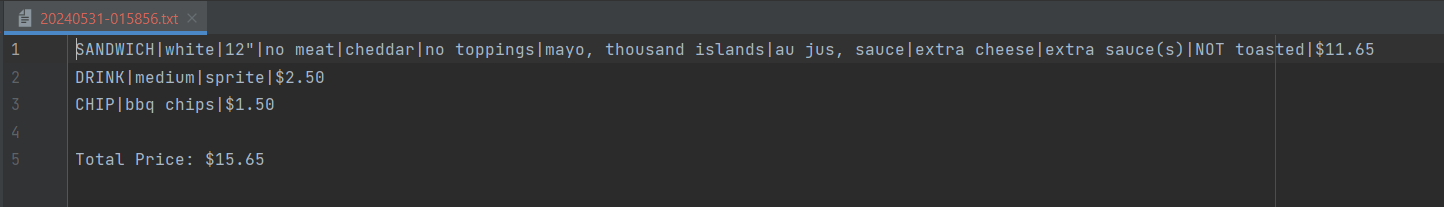
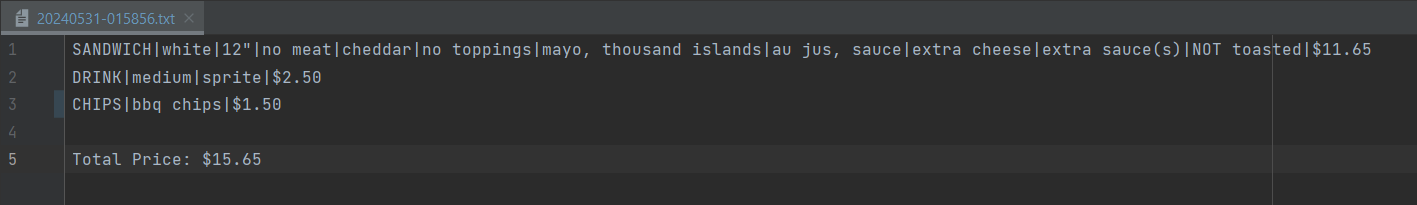
added diagram and main feature section to readme, and renamed 'Chip' class to 'Chips'

diff --git a/src/main/java/com/ps/FileManager.java b/src/main/java/com/ps/FileManager.java
@@ -71,10 +71,10 @@ public class FileManager {
                             product.calcPrice()
                     ));
                     
-                } else if (product instanceof Chip) {
+                } else if (product instanceof Chips) {
                     bufWriter.write(String.format(
-                            "CHIP|%s|$%.2f\n",
-                            ((Chip) product).getChipType(),
+                            "CHIPS|%s|$%.2f\n",
+                            ((Chips) product).getChipType(),
                             product.calcPrice()
                     ));
                 }

diff --git a/src/main/java/com/ps/UserInterface.java b/src/main/java/com/ps/UserInterface.java
@@ -393,10 +393,10 @@ public class UserInterface {
         
             System.out.println("\nYou selected \"" + chipType + "\"\n");
     
-        Chip chip = new Chip(chipType);
-        System.out.println(chip);
+        Chips chips = new Chips(chipType);
+        System.out.println(chips);
     
-        order.add(chip);
+        order.add(chips);
     }
     
     public static void displayOptions(String[] optionsArr, String optionsType) {

diff --git a/src/main/java/com/ps/Chips.java b/src/main/java/com/ps/Chips.java
@@ -4,10 +4,10 @@ package com.ps;
 Represents a bag of "chips"
  */
 
-public class Chip extends Product{
+public class Chips extends Product{
     private String chipType;
     
-    public Chip(String chipType) {
+    public Chips(String chipType) {
         super();
         this.chipType = chipType;
     }

diff --git a/readme.md b/readme.md
@@ -26,6 +26,16 @@ a property of type `boolean` if the instance of the `Sandwich` class had the pro
 - Something I enjoyed while creating my application was not only seeing my ideas become reality, but also the process 
 of turning them into reality. It was very gratifying.
 
+## Main additional feature
+My main additional feature is the ability to select more than one option when customizing your order.
+
+------------
+## Diagram of classes
+
+
+![CapstoneTwoDiagram.png](CapstoneTwoDiagram.png)
+
+
 ## Screenshots of command line
 
 ------------
